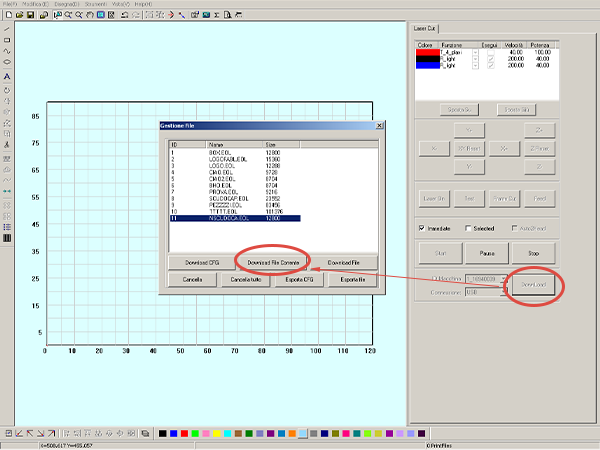
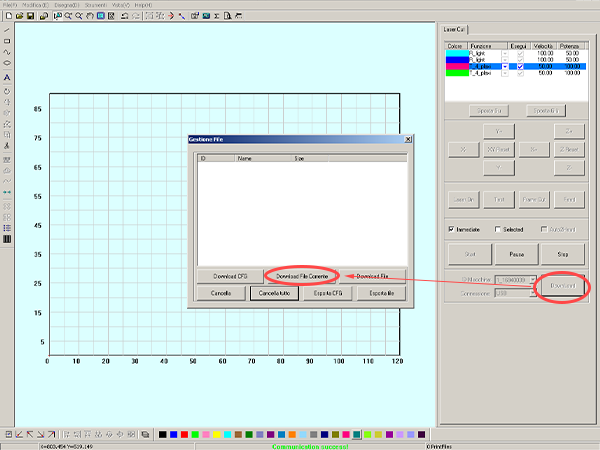
fix images and descriptions

Changed region(s): [[0.0, 0.0, 1.0, 1.0], [0.0, 0.4978, 0.03, 0.56]]

diff --git a/laser-cutter/index.md b/laser-cutter/index.md
@@ -74,7 +74,7 @@ Per tagliare con la Laser Cutter segui i passaggi illustrati di seguito.
 Accendere la ciabatta elettrica collegata alla macchina, quindi accendere anche il computer e lo schermo alla destra della Laser Cutter.   
 ![foto, indicare tasti di accensione](img/laser-cutter-accensione-pc.jpg)
 
-Accendere il refrigeratore (__chiller__) a sinistra della macchina dallo switch posteriore.   
+Accendere il refrigeratore (__Chiller__) a sinistra della macchina dallo switch posteriore.   
 ![foto, indicare tasto](img/laser-cutter-accensione-chiller.jpg)
 
 Prima di avviare la macchina assicurarsi che il piano di lavoro sia completamente sgombro e privo di ostacoli.    
@@ -83,25 +83,29 @@ Accendere quindi la macchina girando in senso orario la chiave dell'__interrutto
 
 ### Preparare il file   
 Inserire la chiavetta USB contenente il file e avviare __Lasercut 6.1__.   
-Per aprire il file vettoriale premere _CTRL+I_ oppure seguire il percorso _file_>_importa_>selezionare il file.   
+Per aprire il file vettoriale premere _CTRL+I_ oppure seguire il percorso _File_>_Importa_>selezionare il file.   
 ![screen, evidenziare percorso](img/laser-cutter-lasercut-importa.png)
 
 È possibile muovere il soggetto trascinandolo dalla _X_ blu posta al suo centro e ruotarlo utilizzando l'icona a sinistra raffigurante una freccia. Si può inoltre scalarlo utilizzando il comando nella colonna a sinistra raffigurante un rettangolo quotato.   
 ![screen, evidenziare posizione comandi](img/laser-cutter-lasercut-move-scale.png)
 
-Dalla colonna a destra è possibile dividere le linee dell'oggetto in base a diversi __profili di taglio o incisione__. Selezionando la linea da isolare e assegnandole un colore dalla barra in basso, il programma la inserisce in un profilo di taglio separato e modificabile in modo individuale.   
+Dalla colonna a destra è possibile dividere le linee dell'oggetto in base a diversi __profili di taglio o incisione__. Selezionando la linea da isolare [1] e assegnandole un colore dalla barra in basso [2], il programma la inserisce in un profilo di taglio separato e modificabile in modo individuale [3].   
 Con i tasti _Sposta Su_ e _Sposta Giù_ si possono ordinare i colori in base all'ordine di esecuzione desiderato.  
 ![screen](img/laser-cutter-lasercut-layers.jpg)
 
-Assegnate le varie linee ai __profili di taglio o incisione__, si devono impostare le caratteristiche in base al tipo di lavorazione desiderata. Nelle immagini di seguito, sono evidenziate in giallo le voci da modificare per le __lavorazioni raster e di taglio__. 
-![screen profili](img/laser-cutter-lasercut-taglio.jpg)
+Assegnate le varie linee ai __profili di taglio o incisione__, facendo doppio click sui colori dei profili si possono impostare le caratteristiche in base al tipo di lavorazione desiderata. Nelle immagini di seguito, sono evidenziate in giallo le voci da modificare per le __lavorazioni di taglio e raster__.   
+__Attenzione!__  non modificare gli altri parametri!
+![screen profili](img/laser-cutter-lasercut-taglio.png)
 ![screen profili](img/laser-cutter-lasercut-raster.jpg)
 
-Controllare sempre dove è il __punto di origine del taglio__, segnato con un pallino blu. È possibile modificarne la posizione premendo il comando in alto e scegliendo la posizione desiderata dalla finestra di dialogo, premere infine _ok_ per confermare.
-![screen comando](img/laser-cutter-lasercut-origine.jpg)
 
-Per inviare il file al macchinario si deve seguire il percorso _download_>_Download File Corrente_>scegliere un nome, infine confermare l'azione.   
+Controllare sempre dove è il __punto di origine del taglio__, segnato con un pallino blu. È possibile modificarne la posizione premendo il comando in alto e scegliendo la posizione desiderata dalla finestra di dialogo, premere infine _Ok_ per confermare.
+![screen comando](img/laser-cutter-lasercut-origine.png)
+
+
+Per inviare il file al macchinario si deve seguire il percorso _Download_>_Download File Corrente_>scegliere un nome, infine confermare l'azione.   
 ![screen, evidenziare percorso](img/laser-cutter-lasercut-download.png)
+
 
 ### Caricare il materiale 
 Aprire quindi il __coperchio__ del macchinario per inserire il materiale da tagliare e incidere. Assicurarsi che le __doghe__ di ferro del macchinario siano ben disposte e nel caso di un materiale morbido (come il tessuto o la carta) aggiungere il piano in __metallo alveolare__.   
